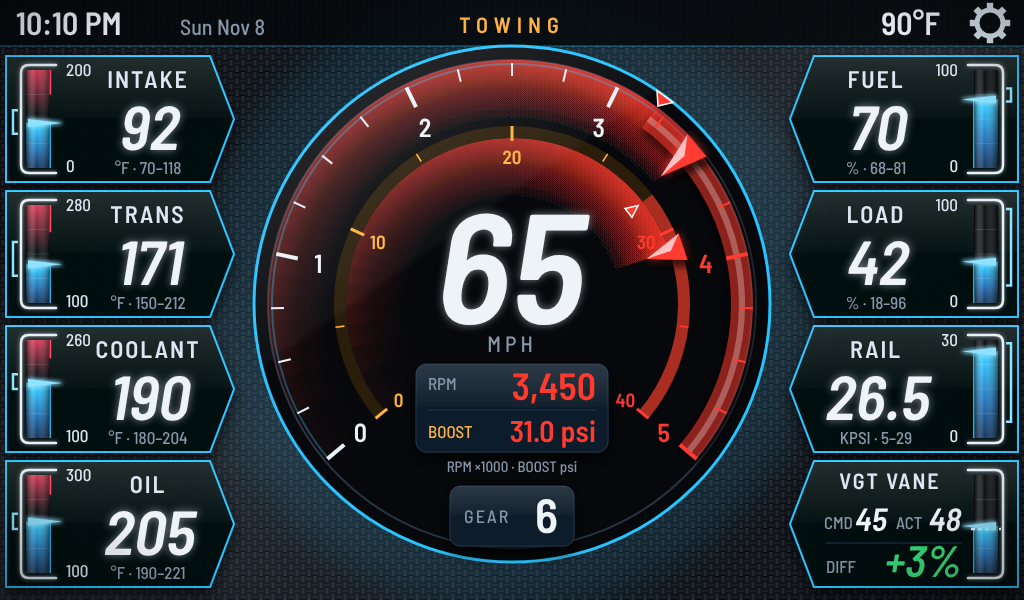
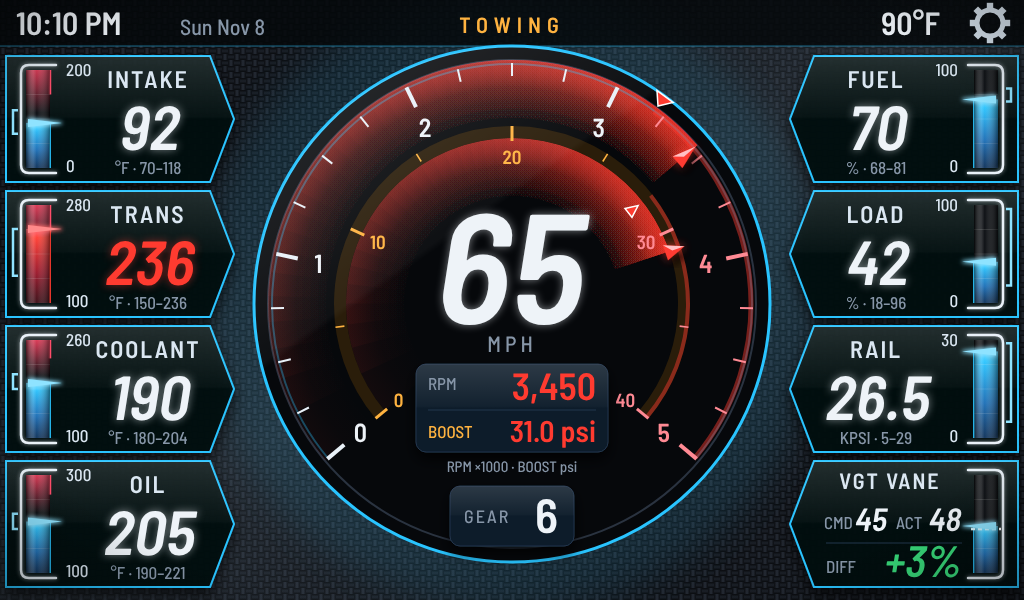
Mockups v2: P3 smaller outward pointers, softer red zones, 3 Hz alarm blink on every gauge
Claude-Session: https://claude.ai/code/session_01NB1fkpFcGY28RY4JZ8NWPC

Changed region(s): [[0.5938, 0.18, 0.75, 0.78], [0.0938, 0.39, 0.2188, 0.51], [0.0, 0.36, 0.0625, 0.51]]

diff --git a/docs/mockups/v2.html b/docs/mockups/v2.html
@@ -289,7 +289,8 @@ pages.classic_trend=()=>{let o=`<rect width="1024" height="600" fill="#0d0d0f"/>
 
 // Premium Towing: aftermarket diesel-monitor look (carbon, segmented EGT arc, side data panels)
 pages.premium_towing=()=>{const CX=512,CY=304,RD=258;
-  const rpm=+(q.get('rpm')||V.rpm),bst=+(q.get('boost')||V.boost),RMAX=+(q.get('rmax')||3200),BMAX=+(q.get('bmax')||28),rHot=rpm>=RMAX,bHot=bst>=BMAX;
+  const rpm=+(q.get('rpm')||V.rpm),bst=+(q.get('boost')||V.boost),RMAX=+(q.get('rmax')||3200),BMAX=+(q.get('bmax')||28),rHot=rpm>=RMAX,bHot=bst>=BMAX,OFF=q.get('blink')==='0';
+  const hotC=on=>on&&OFF?'#5a1a20':C.red;
   const ACCS={cyan:['#29c4ff','#8fe3ff','#1b78c8','#0d3d73','#5fd4ff'],green:['#2fe37a','#9dffc4','#169a4e','#0a4424','#6af2a2'],
     orange:['#ff8a1e','#ffc48a','#c4560a','#5a2604','#ffab5c'],red:['#ff3b4f','#ff9aa5','#b0182a','#4d0912','#ff6b7a'],
     purple:['#a66bff','#d6bdff','#6b33c4','#2e1557','#c09bff'],white:['#e8eef5','#ffffff','#8c96a3','#353b43','#f4f8fb']};
@@ -321,13 +322,13 @@ pages.premium_towing=()=>{const CX=512,CY=304,RD=258;
   o+=`<circle cx="${CX}" cy="${CY}" r="${RD}" fill="#06080b" stroke="${CY2}" stroke-width="3"/><circle cx="${CX}" cy="${CY}" r="${RD-14}" fill="none" stroke="#2a3340" stroke-width="2"/>`;
   const A0=140,SW=260;
   // light trails behind both needles (drawn on the face, under the scales)
-  o+=trail(182,RD-14,A0,A0+SW*rpm/5000,rHot?C.red:ACC[0],rHot?.95:.75,'trO')+trail(104,166,A0,A0+SW*bst/40,bHot?C.red:SEC,bHot?.95:.7,'trI');
+  o+=trail(182,RD-14,A0,A0+SW*rpm/5000,rHot?C.red:ACC[0],rHot?(OFF?.12:.95):.75,'trO')+trail(104,166,A0,A0+SW*bst/40,bHot?C.red:SEC,bHot?(OFF?.12:.95):.7,'trI');
   // outer scale: RPM with a needle
   const RO=230,ar=v=>A0+SW*v/5;
   o+=`<path d="${arc(CX,CY,RO+10,A0,A0+SW)}" stroke="${ACC[0]}" stroke-opacity=".35" stroke-width="2" fill="none"/>`;
-  o+=`<path d="${arc(CX,CY,RO,ar(RMAX/1000),ar(5))}" stroke="${C.red}" stroke-width="22" fill="none" opacity=".55"/>`;
-  for(let v=0;v<=5;v+=.25){const maj=v%1==0,[x1,y1]=P(CX,CY,RO+11,ar(v)),[x2,y2]=P(CX,CY,RO-(maj?11:2),ar(v));o+=`<line x1="${n1(x1)}" y1="${n1(y1)}" x2="${n1(x2)}" y2="${n1(y2)}" stroke="${v*1000>=RMAX?C.red:'#e9f1f8'}" stroke-width="${maj?4:2}"/>`}
-  for(let v=0;v<=5;v++){const[x,y]=P(CX,CY,RO-32,ar(v));o+=T(x,y,26,v,{db:'central',c:v*1000>=RMAX?C.red:C.text,f:'C6'})}
+  o+=`<path d="${arc(CX,CY,RO+9,ar(RMAX/1000),ar(5))}" stroke="${C.red}" stroke-width="5" fill="none" opacity=".45"/>`;
+  for(let v=0;v<=5;v+=.25){const maj=v%1==0,[x1,y1]=P(CX,CY,RO+11,ar(v)),[x2,y2]=P(CX,CY,RO-(maj?11:2),ar(v));o+=`<line x1="${n1(x1)}" y1="${n1(y1)}" x2="${n1(x2)}" y2="${n1(y2)}" stroke="${v*1000>=RMAX?'#ff8a94':'#e9f1f8'}" stroke-width="${maj?4:2}"/>`}
+  for(let v=0;v<=5;v++){const[x,y]=P(CX,CY,RO-32,ar(v));o+=T(x,y,26,v,{db:'central',c:v*1000>=RMAX?'#ff8a94':C.text,f:'C6'})}
   function wedge(r0,r1,an,w,col,lite){const[bx1,by1]=P(CX,CY,r0,an-w),[bx2,by2]=P(CX,CY,r0,an+w),[tx,ty]=P(CX,CY,r1,an),[mx,my]=P(CX,CY,r0+(r1-r0)*.35,an);
     return `<polygon points="${n1(bx1)},${n1(by1)} ${n1(tx)},${n1(ty)} ${n1(bx2)},${n1(by2)}" fill="${col}" opacity=".8" filter="url(#glowU)"/>`+
       `<polygon points="${n1(bx1)},${n1(by1)} ${n1(tx)},${n1(ty)} ${n1(bx2)},${n1(by2)}" fill="${col}" filter="url(#nshadow)"/>`+
@@ -335,35 +336,35 @@ pages.premium_towing=()=>{const CX=512,CY=304,RD=258;
   function limitMark(r,an,out){const[x0,y0]=P(CX,CY,r+(out?16:-16),an),[x1,y1]=P(CX,CY,r+(out?4:-4),an),[a1,b1]=P(CX,CY,r+(out?16:-16),an-2.2),[a2,b2]=P(CX,CY,r+(out?16:-16),an+2.2);
     return `<polygon points="${n1(a1)},${n1(b1)} ${n1(x1)},${n1(y1)} ${n1(a2)},${n1(b2)}" fill="${C.red}" stroke="#fff" stroke-width="1.5"/>`}
   o+=limitMark(RO+12,ar(RMAX/1000),true);
-  o+=wedge(RO+14,RO-34,ar(rpm/1000),3.4,rHot?C.red:ACC[0],rHot?'#ffd0d4':ACC[1]);
+  o+=wedge(RO-12,RO+12,ar(rpm/1000),2.0,rHot?hotC(1):ACC[0],rHot?(OFF?'#5a1a20':'#ffd0d4'):ACC[1]);
   // inner scale: BOOST with its own needle
   const RI=172,ab=v=>A0+SW*v/40;
   o+=`<path d="${arc(CX,CY,RI,A0,A0+SW)}" stroke="#2a1d0a" stroke-width="12" fill="none"/>`;
-  o+=`<path d="${arc(CX,CY,RI,ab(BMAX),ab(40))}" stroke="${C.red}" stroke-width="12" fill="none" opacity=".6"/>`;
-  for(let v=0;v<=40;v+=5){const maj=v%10==0,[x1,y1]=P(CX,CY,RI+6,ab(v)),[x2,y2]=P(CX,CY,RI-(maj?9:3),ab(v));o+=`<line x1="${n1(x1)}" y1="${n1(y1)}" x2="${n1(x2)}" y2="${n1(y2)}" stroke="${v>=BMAX?C.red:SEC}" stroke-width="${maj?3:1.6}"/>`}
-  for(let v=0;v<=40;v+=10){const[x,y]=P(CX,CY,RI-24,ab(v));o+=T(x,y,19,v,{db:'central',c:v>=BMAX?C.red:SEC,f:'C6'})}
+  o+=`<path d="${arc(CX,CY,RI+4,ab(BMAX),ab(40))}" stroke="${C.red}" stroke-width="4" fill="none" opacity=".45"/>`;
+  for(let v=0;v<=40;v+=5){const maj=v%10==0,[x1,y1]=P(CX,CY,RI+6,ab(v)),[x2,y2]=P(CX,CY,RI-(maj?9:3),ab(v));o+=`<line x1="${n1(x1)}" y1="${n1(y1)}" x2="${n1(x2)}" y2="${n1(y2)}" stroke="${v>=BMAX?'#ff8a94':SEC}" stroke-width="${maj?3:1.6}"/>`}
+  for(let v=0;v<=40;v+=10){const[x,y]=P(CX,CY,RI-24,ab(v));o+=T(x,y,19,v,{db:'central',c:v>=BMAX?'#ff8a94':SEC,f:'C6'})}
   o+=limitMark(RI-8,ab(BMAX),false);
-  o+=wedge(RI+9,RI-30,ab(bst),4.4,bHot?C.red:SEC,bHot?'#ffd0d4':'#fff3d6');
+  o+=wedge(RI-10,RI+10,ab(bst),2.8,bHot?hotC(1):SEC,bHot?(OFF?'#5a1a20':'#ffd0d4'):'#fff3d6');
   // speed, big; RPM digits with boost under them
   o+=sk(CX-6,CY+20,156,V.mph)+T(CX,CY+48,22,'MPH',{c:C.dim,ls:4,f:'C5'});
   o+=`<rect x="${CX-96}" y="${CY+60}" width="192" height="88" rx="10" fill="#0f1b2a" stroke="#22364d"/>`+T(CX,CY+168,15,'RPM ×1000  ·  BOOST psi',{c:C.dim,f:'C5'});
-  o+=T(CX-84,CY+86,17,'RPM',{a:'start',c:C.dim,f:'C5'})+T(CX+84,CY+96,38,fmt(rpm),{a:'end',f:'C6',c:rHot?C.red:C.text});
+  o+=T(CX-84,CY+86,17,'RPM',{a:'start',c:C.dim,f:'C5'})+T(CX+84,CY+96,38,fmt(rpm),{a:'end',f:'C6',c:rHot?hotC(1):C.text});
   o+=`<line x1="${CX-84}" y1="${CY+106}" x2="${CX+84}" y2="${CY+106}" stroke="#22364d"/>`;
-  o+=T(CX-84,CY+134,17,'BOOST',{a:'start',c:SEC,f:'C5'})+T(CX+84,CY+138,30,bst.toFixed(1)+' psi',{a:'end',f:'C6',c:bHot?C.red:SEC});
+  o+=T(CX-84,CY+134,17,'BOOST',{a:'start',c:SEC,f:'C5'})+T(CX+84,CY+138,30,bst.toFixed(1)+' psi',{a:'end',f:'C6',c:bHot?hotC(1):SEC});
   // gear below the circle
   o+=`<rect x="${CX-62}" y="${CY+182}" width="124" height="60" rx="10" fill="#0f1b2a" stroke="#22364d"/>`+T(CX-48,CY+219,18,'GEAR',{a:'start',c:C.dim,f:'C5',ls:2})+T(CX+46,CY+229,48,V.gear,{a:'end',f:'C6'});
   // Premium vertical bar: outline frame, red zone fading down, fill fading down from a bright top edge, pointer wedge,
   // dividers, tube shading, scale numbers, and this drive's min-max as a bracket outside the frame.
   let RB=0;
   function rbar(x,y,h,mn,mx,red,lo,hi,now,o2={}){const W=24,left=o2.left!==false,Y=v=>y+h-h*(Math.min(Math.max(v,mn),mx)-mn)/(mx-mn);
-    const id='rb'+(RB++),hot=red!=null&&now>=red,col=hot?C.red:CY2,yn=Y(now);let g='';
+    const id='rb'+(RB++),hot=red!=null&&now>=red,col=hot?C.red:CY2,yn=Y(now);let g='';const dimHot=hot&&OFF;
     g+=`<defs><linearGradient id="${id}f" x1="0" y1="0" x2="0" y2="1"><stop offset="0" stop-color="${hot?'#ff5a6e':ACC[4]}"/><stop offset=".12" stop-color="${col}"/><stop offset=".6" stop-color="${hot?'#a8152a':ACC[2]}" stop-opacity=".9"/><stop offset="1" stop-color="${hot?'#4a0a14':ACC[3]}" stop-opacity=".75"/></linearGradient>
       <linearGradient id="${id}r" x1="0" y1="0" x2="0" y2="1"><stop offset="0" stop-color="#ff3b5c" stop-opacity=".85"/><stop offset="1" stop-color="#ff3b5c" stop-opacity="0"/></linearGradient>
       <linearGradient id="${id}t" x1="0" y1="0" x2="1" y2="0"><stop offset="0" stop-color="#000" stop-opacity=".55"/><stop offset=".32" stop-color="#fff" stop-opacity=".18"/><stop offset=".45" stop-color="#fff" stop-opacity=".04"/><stop offset="1" stop-color="#000" stop-opacity=".5"/></linearGradient></defs>`;
     g+=`<rect x="${x}" y="${y}" width="${W}" height="${h}" fill="#05080c"/>`;
     if(red!=null){const yr=Y(red);g+=`<rect x="${x}" y="${y}" width="${W}" height="${n1(yr-y+18)}" fill="url(#${id}r)"/>`+
       `<line x1="${left?x+W:x}" y1="${y}" x2="${left?x+W:x}" y2="${n1(yr)}" stroke="#ff4d6a" stroke-width="2.5"/>`}
-    g+=`<rect x="${x}" y="${n1(yn)}" width="${W}" height="${n1(y+h-yn)}" fill="url(#${id}f)"/>`;
+    g+=`<rect x="${x}" y="${n1(yn)}" width="${W}" height="${n1(y+h-yn)}" fill="url(#${id}f)"${dimHot?' opacity=".2"':''}/>`;
     g+=`<line x1="${left?x+W:x}" y1="${n1(yn)}" x2="${left?x+W:x}" y2="${y+h}" stroke="${col}" stroke-width="2" opacity=".9"/>`;
     for(let k=1;k<4;k++)g+=`<line x1="${x}" y1="${n1(y+h*k/4)}" x2="${x+W}" y2="${n1(y+h*k/4)}" stroke="#fff" stroke-opacity=".12"/>`;
     g+=`<rect x="${x}" y="${y}" width="${W}" height="${h}" fill="url(#${id}t)"/>`;
@@ -381,7 +382,7 @@ pages.premium_towing=()=>{const CX=512,CY=304,RD=258;
     // this drive's min-max bracket outside the frame
     if(lo!=null){const bxx=left?fx-8:fx+8,yh=Y(hi),yl=Y(lo);g+=`<path d="M${bxx+(left?5:-5)},${n1(yh)} H${bxx} V${n1(yl)} H${bxx+(left?5:-5)}" fill="none" stroke="${ACC[1]}" stroke-width="2.5"/>`}
     return g}
-  const L=[['INTAKE',V.iat,'°F',[0,200,150,70,118]],['TRANS',V.trans,'°F',[100,280,230,150,212]],['COOLANT',V.cool,'°F',[100,260,230,180,204]],['OIL',V.oil,'°F',[100,300,260,190,221]]];
+  const L=[['INTAKE',V.iat,'°F',[0,200,150,70,118]],['TRANS',+(q.get('trans')||V.trans),'°F',[100,280,230,150,Math.max(212,+(q.get('trans')||0))]],['COOLANT',V.cool,'°F',[100,260,230,180,204]],['OIL',V.oil,'°F',[100,300,260,190,221]]];
   const Rr=[['FUEL',70,'%',[0,100,null,68,81]],['LOAD',42,'%',[0,100,null,18,96]],['RAIL',26.5,'KPSI',[0,30,null,5,29]],['VGT',null,'',null]];
   [[L,true],[Rr,false]].forEach(([items,left])=>items.forEach(([lab,val,u,rng],i)=>{const w=228,h=126,y=56+i*(h+9),x=left?6:1018-w;
     const pts=left?`${x},${y} ${x+w-24},${y} ${x+w},${y+h/2} ${x+w-24},${y+h} ${x},${y+h}`:`${x+24},${y} ${x+w},${y} ${x+w},${y+h} ${x+24},${y+h} ${x},${y+h/2}`;
@@ -397,7 +398,7 @@ pages.premium_towing=()=>{const CX=512,CY=304,RD=258;
     if(lab=='GEAR'){o+=T(cx,y+32,24,lab,{f:'C6',c:'#dbe7f2',ls:2})+sk(cx,y+106,74,val);
       for(let g=1;g<=6;g++){const py=y+h-14-g*17;o+=`<rect x="${bx}" y="${py}" width="12" height="12" rx="3" fill="${g<=+val?CY2:'#16202b'}"${g==+val?' filter="url(#glow2)"':''}/>`}return}
     const hot=rng&&rng[2]!=null&&val>=rng[2];
-    o+=T(cx,y+32,24,lab,{f:'C6',c:'#dbe7f2',ls:2})+sk(cx,y+94,62,val,{c:hot?C.red:C.text})+T(cx,y+118,17,[u,rng&&rng[3]!=null?rng[3]+'–'+rng[4]:''].filter(Boolean).join('  ·  '),{c:C.dim,f:'C5'});
+    o+=T(cx,y+32,24,lab,{f:'C6',c:'#dbe7f2',ls:2})+sk(cx,y+94,62,val,{c:hot?hotC(1):C.text})+T(cx,y+118,17,[u,rng&&rng[3]!=null?rng[3]+'–'+rng[4]:''].filter(Boolean).join('  ·  '),{c:C.dim,f:'C5'});
     if(rng)o+=rbar(bx,y+14,h-28,rng[0],rng[1],rng[2],rng[3],rng[4],val,{left});
 }));
   if(q.get('limits')){o+=`<rect width="1024" height="600" fill="#000" opacity=".72"/><rect x="172" y="90" width="680" height="420" rx="18" fill="#0b131d" stroke="${CY2}" stroke-width="2"/>`;

diff --git a/docs/mockups/v2/KEY.md b/docs/mockups/v2/KEY.md
@@ -7,7 +7,7 @@ renders are in `numbered/`.
 |---|---|
 | **P1** Premium Daily | 1 tach that wraps into the top bar · 2 gear dial · 3 center card (boost/trans/MPG) · 4 speedo · 5 odometer · 6 coolant · 7 fuel % and range · 8 clock/date bar |
 | **P2** Premium Sport | 1 big center tach · 2 speed · 3 gear · 4 red-zone glow · 5 coolant bar · 6 trans bar · 7 boost bar · 8 oil bar |
-| **P3** Premium Towing (rev 3) | 1 speed (big, center) · 2 RPM wedge pointer with a light trail (lit wedge on the face from 0 to the pointer) · 3 boost wedge pointer on the inner scale with its own light trail. Each has a user alarm limit (red marker; red zone starts there); at or above it the whole trail, the pointer and the digits turn red (`premium_towing_alarm.png`, limits popup `premium_towing_limits.png`) · 4 RPM digits with boost under them · 5 gear (bottom of the circle) · 6 left panels (intake/trans/coolant/oil) · 7 right panels (fuel/load/rail/VGT) · 8 premium vertical bars: outline frame, red zone fading down, fill fading down from a bright top edge, pointer at now, scale min/max, this drive's min–max bracket (also under the value) · 9 VGT vane: CMD, ACT and DIFF (amber at 5%, red at 10%) · 10 top bar: time, date, page, outside temp, settings |
+| **P3** Premium Towing (rev 3) | 1 speed (big, center) · 2 small RPM wedge pointer (faces out) with a light trail (lit wedge on the face from 0 to the pointer) · 3 small boost wedge pointer (faces out) on the inner scale with its own light trail. Each has a user alarm limit (red marker; a thin soft red line from there up); at or above it the whole trail, the pointer and the digits turn red (`premium_towing_alarm.png`, limits popup `premium_towing_limits.png`) · 4 RPM digits with boost under them · 5 gear (bottom of the circle) · 6 left panels (intake/trans/coolant/oil) · 7 right panels (fuel/load/rail/VGT) · 8 premium vertical bars: outline frame, red zone fading down, fill fading down from a bright top edge, pointer at now, scale min/max, this drive's min–max bracket (also under the value) · 9 VGT vane: CMD, ACT and DIFF (amber at 5%, red at 10%) · 10 top bar: time, date, page, outside temp, settings |
 | **P4** Premium Economy | 1 open-arc tach · 2 speed · 3 gear · 4 fuel bar · 5 fuel % and range · 6 trip/tank boxes · 7 MPG bar with tank-avg marker · 8 MPG now/trip/last 10 · 9 telltales |
 | **P5** Premium Trend | 1 channel list · 2 live values · 3 chart · 4 tap cursor · 5 min/avg/max · 6 time window buttons |
 | **C1** Classic Daily | 1 digital speed/gear window · 2 sweep speedo · 3 odometer · 4 round tach · 5 temp/trans window · 6 boost/fuel window · 7 clock |
@@ -26,3 +26,8 @@ Render with `&bg=` and `&acc=`/`&sec=` (sheets in `options/`).
   Presets: cyan, green, orange, purple, white for main; amber, cyan, green, orange, purple, white for second.
   Red, amber and green keep their meaning (danger, warning, OK) and don't change. Red as the main accent (K4) is shown
   but not recommended: everything looks like an alarm.
+
+## Alarms blink
+
+Any reading at or over its limit blinks its red at 3 Hz (on 167 ms, off 167 ms): the center trails, pointers and
+digits, and the side panels' value and bar fill. See `premium_towing_alarm_blink.gif`; render the off phase with `&blink=0`.
